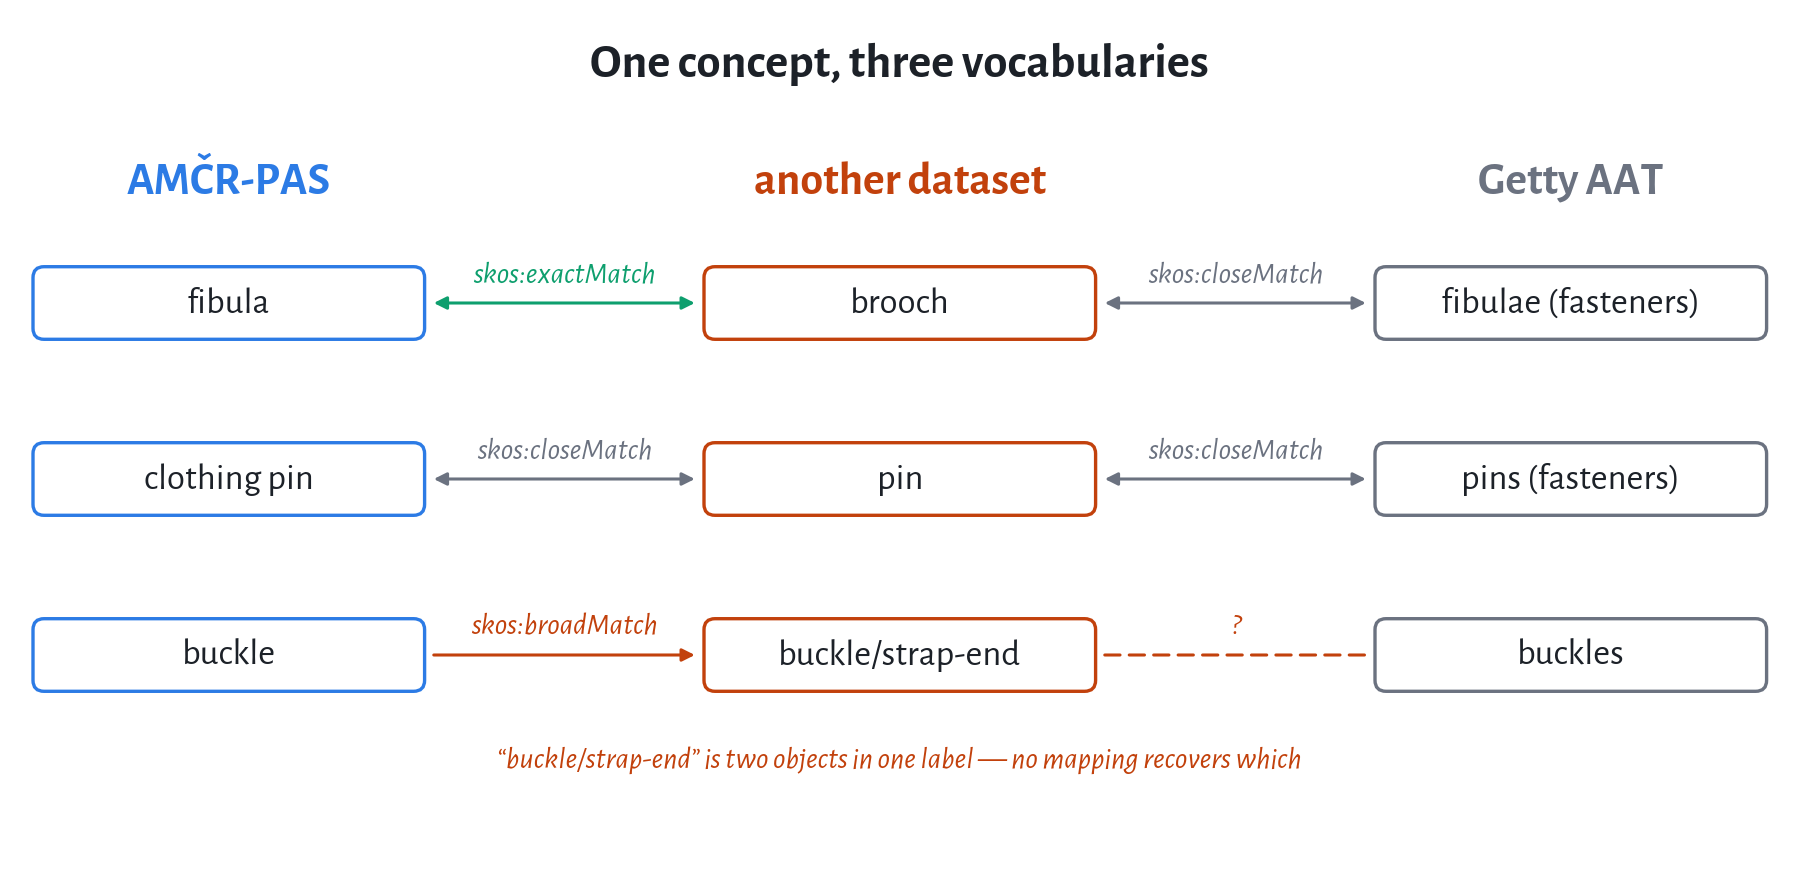
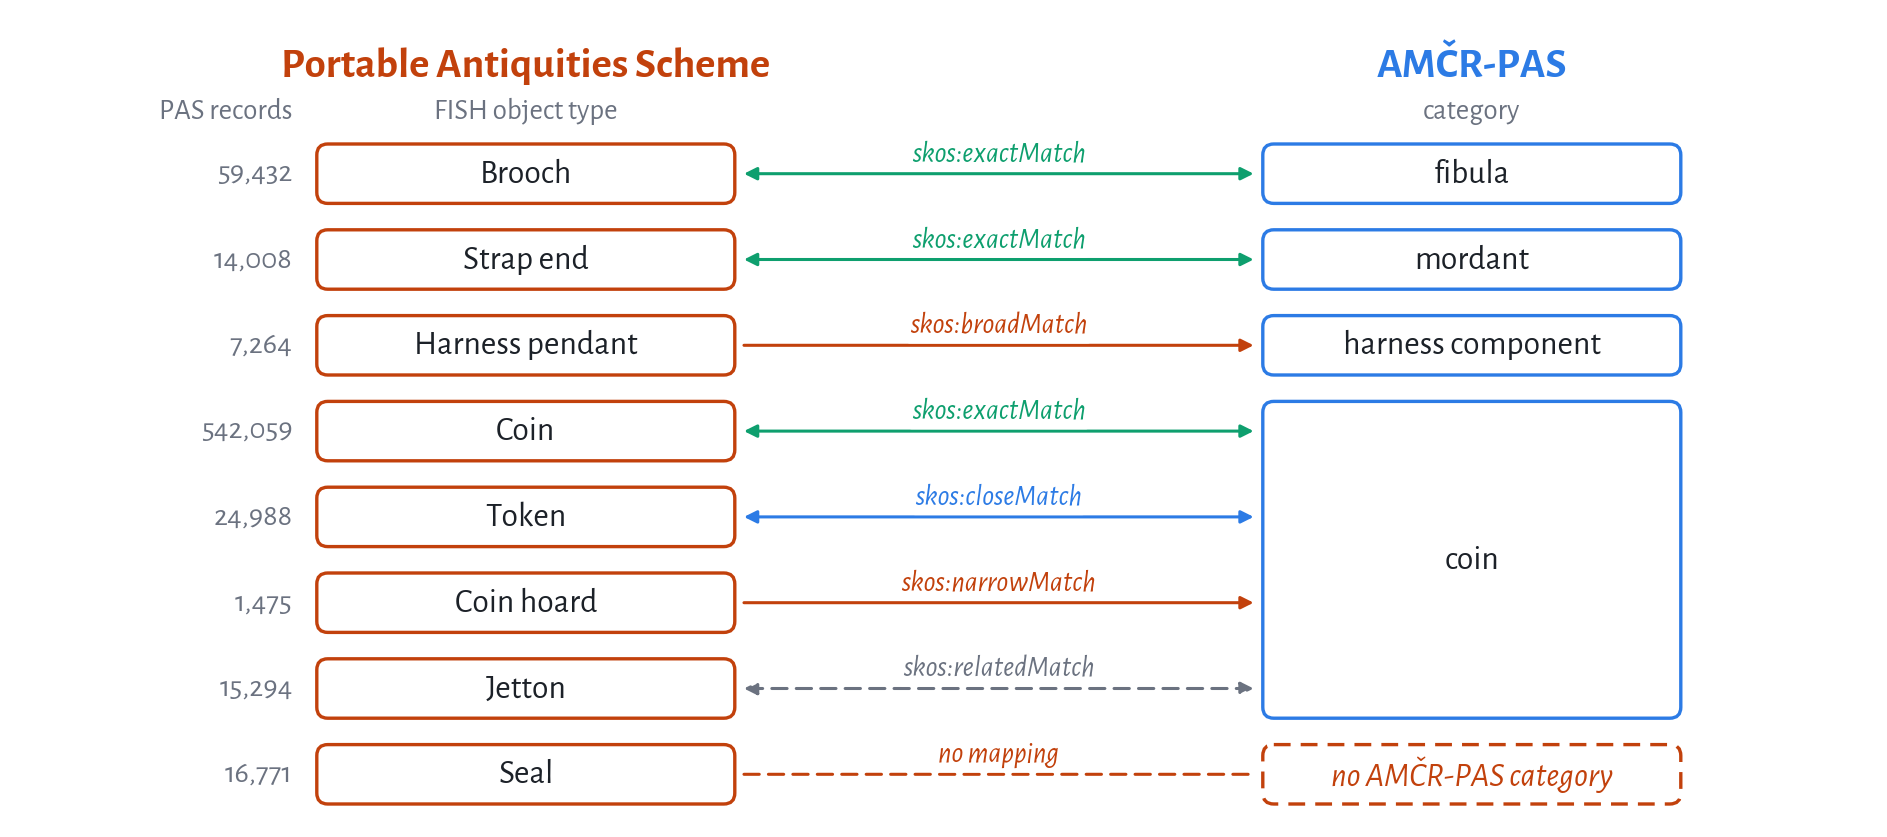
Replace the invented crosswalk with the real PAS → AMČR-PAS mapping
The crosswalk slide now draws eight validated rows of the FISH (PAS) →
AMČR-PAS SKOS mapping sheet, read from temp/ by make_images.py: four PAS
types reaching AMČR-PAS "coin" by four different relations, and Seal with
no counterpart. The SKOS table gains a column of real relation counts, a
new slide shows four rows as Turtle (AMČR-PAS side under a placeholder
namespace, since the sheet has labels but no URIs), and the made-up
"112 and 90 types share 30" becomes 63 of 112 categories with a validated
exactMatch. Counts come from data/pas2amcr_summary.csv, validated rows only.

diff --git a/materials/artefacts/make_images.py b/materials/artefacts/make_images.py
@@ -263,52 +263,106 @@ def format_example():
 
 # --- 5. Mapping between vocabularies ----------------------------------------
 
-def skos_crosswalk():
-    """Three vocabularies, one concept, and the three ways they fail to line up.
+# The PAS → AMČR-PAS mapping: one row per FISH object type used by the Portable
+# Antiquities Scheme, with a SKOS relation to an AMČR-PAS category (by label — the
+# sheet carries no AMČR-PAS URIs) and a flag for whether a person has checked it.
+MAPPING = SRC / "vocab_ predmet_druh - pas2amcr.csv"
+RELATIONS = ["exactMatch", "closeMatch", "broadMatch", "narrowMatch", "relatedMatch"]
 
-    Term labels are real (AMCR-PAS categories are taken from the COCO file); the
-    identifiers belong on the slide only once they have been checked against the
-    live vocabularies — see the prerequisites in the session plan.
+
+def pas_mapping():
+    with MAPPING.open(newline="") as f:
+        rows = list(csv.DictReader(f))
+    for r in rows:
+        r["relation"] = r["mappingRelation"].removeprefix("skos:") or "none"
+        r["records"] = int(float(r["count"].replace(",", "") or 0))   # "59,432.00" and "542059"
+    return rows
+
+
+def skos_summary(rows):
+    """The numbers the SKOS slides quote. Validated rows only, as on the slides."""
+    ok = [r for r in rows if r["validated"] == "TRUE"]
+    rel = Counter(r["relation"] for r in ok)
+    used = {_cats[a["category_id"]] for a in _coco["annotations"]}
+    exact = {r["target"] for r in ok if r["relation"] == "exactMatch"}
+    s = {"pas_terms": len(rows),
+         "amcr_targets": len({r["target"] for r in rows if r["target"]}),
+         "validated": len(ok),
+         "unvalidated": len(rows) - len(ok),
+         **{r: rel[r] for r in RELATIONS + ["none"]},
+         "amcr_used": len(used),
+         "amcr_used_exact": len(used & exact),
+         "into_instrument": sum(r["target"] == "instrument" for r in ok)}
+    with (DATA / "pas2amcr_summary.csv").open("w", newline="") as f:
+        w = csv.writer(f)
+        w.writerow(["key", "value"])
+        w.writerows(s.items())
+    return s
+
+
+def skos_crosswalk(rows):
+    """Eight real rows of the PAS → AMČR-PAS mapping, one or more per SKOS relation.
+
+    Four PAS types land on the one AMČR-PAS *coin*, each by a different relation —
+    that fan-in is the argument. All rows are validated in the source sheet.
     """
-    W, H = 1620, 780
+    by_source = {r["source"]: r for r in rows}
+    show = ["BROOCH", "STRAP END", "HARNESS PENDANT",
+            "COIN", "TOKEN", "COIN HOARD", "JETTON", "SEAL"]
+    shown = [by_source[s] for s in show]
+    assert all(r["validated"] == "TRUE" for r in shown), "only validated rows on the slide"
+
+    W, H = 1700, 745
     fig, ax = canvas(W, H)
     ax.set_xlim(0, W); ax.set_ylim(H, 0)
 
-    HALF = 178
-    cols = [(200, "AMČR-PAS", BLUE, ["fibula", "clothing pin", "buckle"]),
-            (810, "another dataset", ORANGE, ["brooch", "pin", "buckle/strap-end"]),
-            (1420, "Getty AAT", MUTE, ["fibulae (fasteners)", "pins (fasteners)", "buckles"])]
-    ys = [268, 428, 588]
+    XL, XR, HALF, BOX = 470, 1330, 190, 54
+    y0, step = 150, 78
+    ys = [y0 + i * step for i in range(len(shown))]
 
-    for x, title, colour, terms in cols:
-        ax.text(x, 168, title, fontsize=30, fontweight="bold", color=colour, ha="center")
-        for y, t in zip(ys, terms):
-            ax.add_patch(FancyBboxPatch((x - HALF, y - 33), 2 * HALF, 66,
-                                        boxstyle="round,pad=0,rounding_size=10",
-                                        fc="white", ec=colour, lw=2.2))
-            ax.text(x, y, t, fontsize=24, ha="center", va="center", color=INK)
+    ax.text(XL, 62, "Portable Antiquities Scheme", fontsize=28, fontweight="bold",
+            color=ORANGE, ha="center")
+    ax.text(XL, 100, "FISH object type", fontsize=19, color=MUTE, ha="center")
+    ax.text(XL - HALF - 22, 100, "PAS records", fontsize=19, color=MUTE, ha="right")
+    ax.text(XR, 62, "AMČR-PAS", fontsize=28, fontweight="bold", color=BLUE, ha="center")
+    ax.text(XR, 100, "category", fontsize=19, color=MUTE, ha="center")
 
-    def arrow(col_a, col_b, y, text, colour, style="<|-|>", dashed=False):
-        x1, x2 = cols[col_a][0] + HALF, cols[col_b][0] - HALF
-        ax.add_patch(FancyArrowPatch((x1, y), (x2, y), arrowstyle=style, mutation_scale=17,
-                                     lw=2, color=colour, shrinkA=6, shrinkB=6,
+    def box(x, y_top, y_bot, text, colour, dashed=False):
+        ax.add_patch(FancyBboxPatch((x - HALF, y_top), 2 * HALF, y_bot - y_top,
+                                    boxstyle="round,pad=0,rounding_size=10", fc="white",
+                                    ec=colour, lw=2.2, linestyle=(0, (5, 3)) if dashed else "solid"))
+        ax.text(x, (y_top + y_bot) / 2, text, fontsize=22, ha="center", va="center",
+                color=colour if dashed else INK, style="italic" if dashed else "normal")
+
+    # Relation → (colour, arrow style, dashed). Colour follows the "safe to do" column
+    # of the next slide: green merge, blue merge-with-a-note, orange roll up, grey don't.
+    style = {"exactMatch": (GREEN, "<|-|>", False), "closeMatch": (BLUE, "<|-|>", False),
+             "broadMatch": (ORANGE, "-|>", False), "narrowMatch": (ORANGE, "-|>", False),
+             "relatedMatch": (MUTE, "<|-|>", True), "none": (ORANGE, "-", True)}
+
+    for y, r in zip(ys, shown):
+        box(XL, y - BOX / 2, y + BOX / 2, r["label"], ORANGE)
+        ax.text(XL - HALF - 22, y, f"{r['records']:,}", fontsize=20, ha="right", va="center",
+                color=MUTE)
+        colour, arrowstyle, dashed = style[r["relation"]]
+        ax.add_patch(FancyArrowPatch((XL + HALF, y), (XR - HALF, y), arrowstyle=arrowstyle,
+                                     mutation_scale=17, lw=2, color=colour, shrinkA=6, shrinkB=6,
                                      linestyle=(0, (5, 3)) if dashed else "solid"))
-        ax.text((x1 + x2) / 2, y - 26, text, fontsize=20, ha="center", va="center",
+        text = "no mapping" if r["relation"] == "none" else "skos:" + r["relation"]
+        ax.text((XL + XR) / 2, y - 18, text, fontsize=19, ha="center", va="center",
                 color=colour, style="italic",
-                bbox=dict(boxstyle="round,pad=0.18", fc="white", ec="none"))
+                bbox=dict(boxstyle="round,pad=0.15", fc="white", ec="none"))
 
-    arrow(0, 1, ys[0], "skos:exactMatch", GREEN)
-    arrow(1, 2, ys[0], "skos:closeMatch", MUTE)
-    arrow(0, 1, ys[1], "skos:closeMatch", MUTE)
-    arrow(1, 2, ys[1], "skos:closeMatch", MUTE)
-    # The row that does not line up: one label covering two kinds of object.
-    arrow(0, 1, ys[2], "skos:broadMatch", ORANGE, style="-|>")
-    arrow(1, 2, ys[2], "?", ORANGE, style="-", dashed=True)
-    ax.text(810, 690, "“buckle/strap-end” is two objects in one label — no mapping recovers which",
-            fontsize=20, ha="center", color=ORANGE, style="italic")
+    # Right-hand boxes: one per distinct target, spanning every row that points at it.
+    targets = {}
+    for y, r in zip(ys, shown):
+        targets.setdefault(r["target"], []).append(y)
+    for target, yy in targets.items():
+        if target:
+            box(XR, min(yy) - BOX / 2, max(yy) + BOX / 2, target, BLUE)
+        else:
+            box(XR, yy[0] - BOX / 2, yy[0] + BOX / 2, "no AMČR-PAS category", ORANGE, dashed=True)
 
-    ax.text(W / 2, 62, "One concept, three vocabularies", fontsize=32, fontweight="bold",
-            ha="center", color=INK)
     save_png(fig, "skos-crosswalk.png", dpi=110, bbox=True)
 
 
@@ -317,10 +371,15 @@ if __name__ == "__main__":
     verts = polygon_cost()
     yolo, n_poly = format_example()
     annotation_levels()
-    skos_crosswalk()
+    mapping = pas_mapping()
+    skos = skos_summary(mapping)
+    skos_crosswalk(mapping)
     print(f"figures  -> {OUT}")
     print(f"data     -> {DATA}")
     print(f"vertices on the rosary photograph: {verts}")
     print(f"cross polygon: {n_poly} vertices; YOLO line: {yolo}")
     for k, v in summary.items():
+        print(f"  {k:32} {v}")
+    print("PAS -> AMCR-PAS mapping (validated rows):")
+    for k, v in skos.items():
         print(f"  {k:32} {v}")
